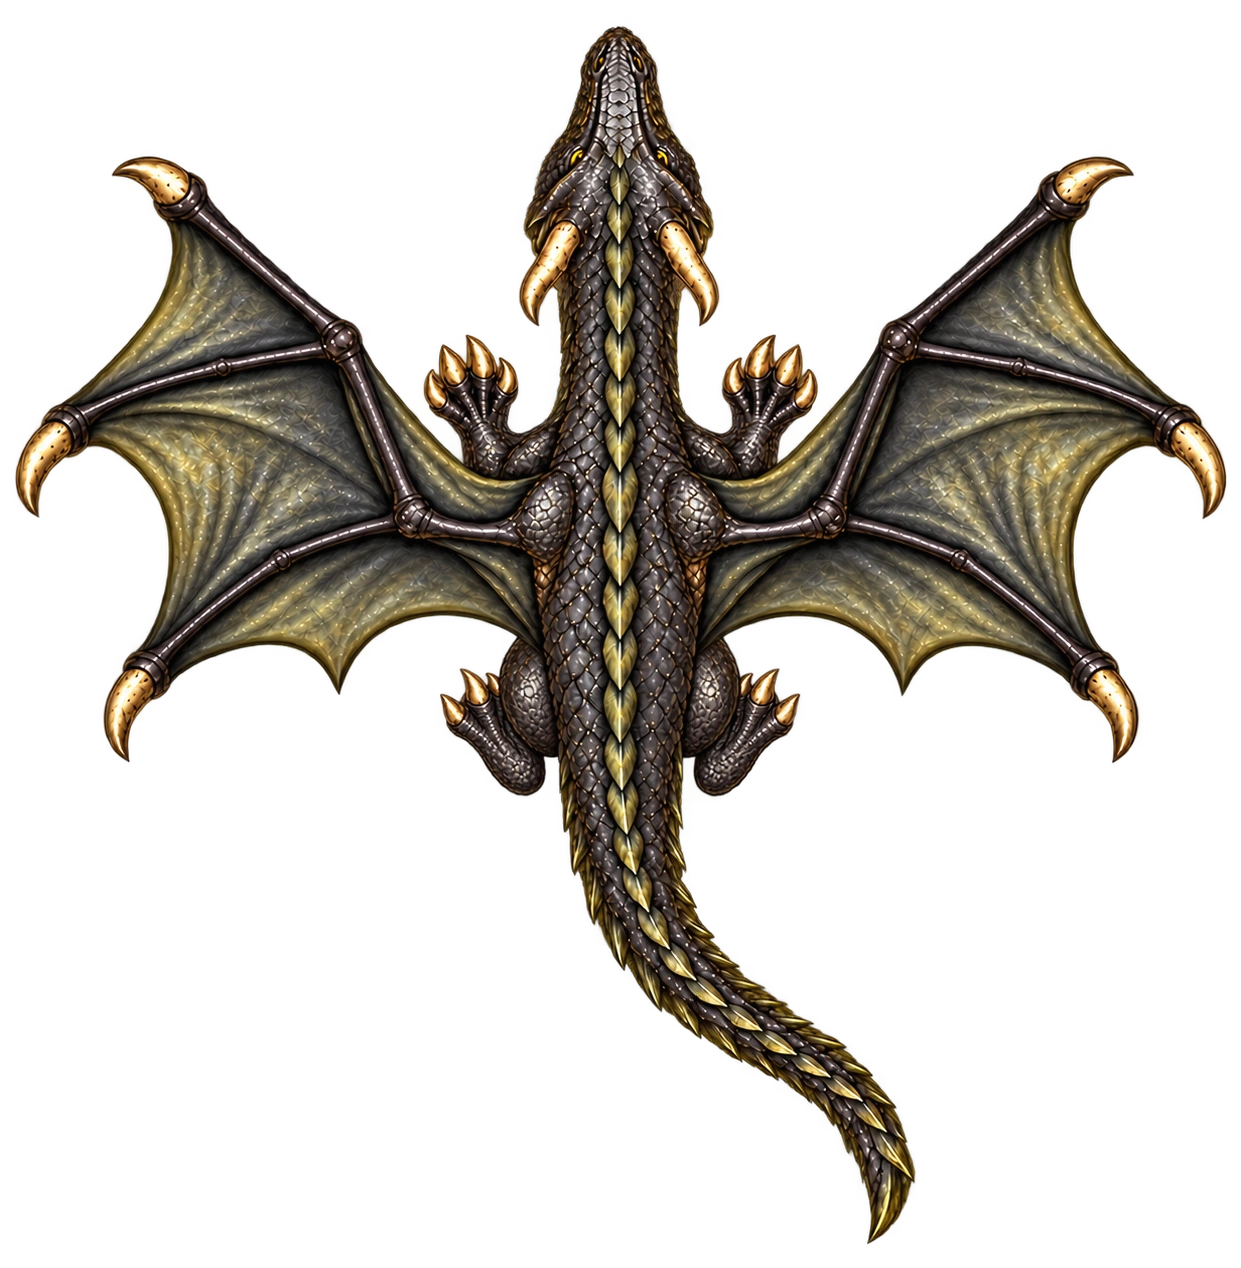
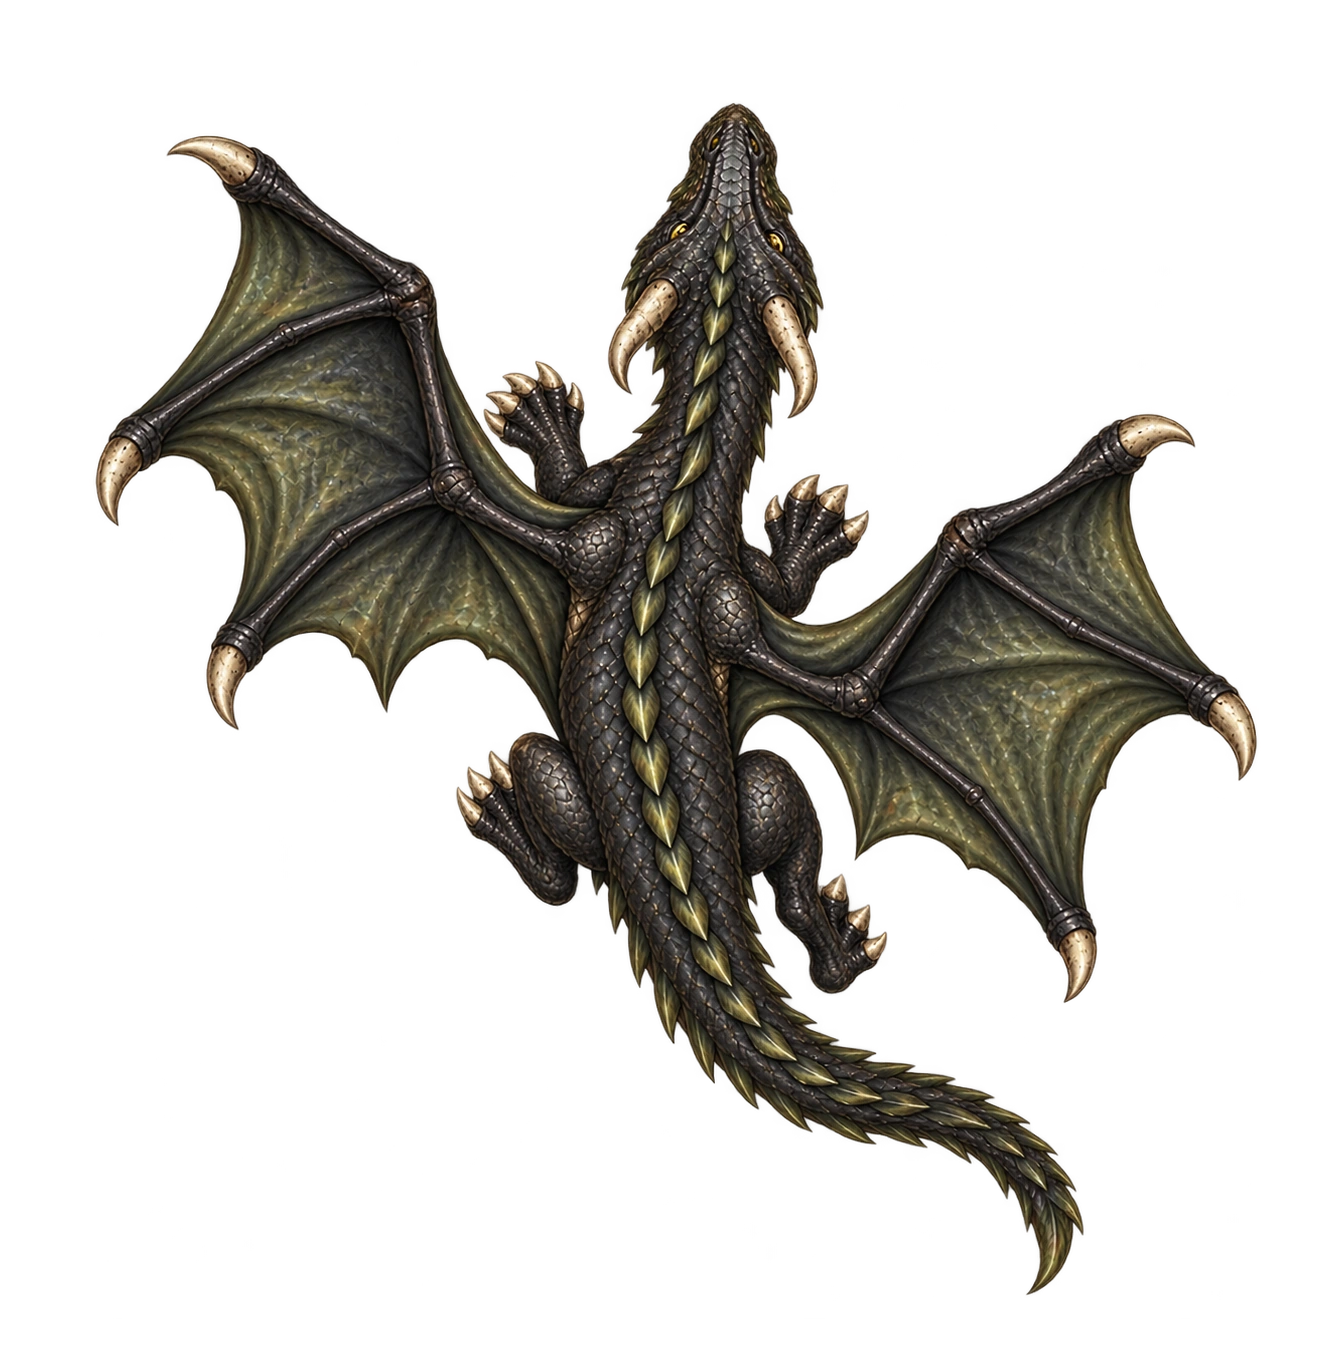
Refine seven VTT monster tokens and move audio credits to settings

diff --git a/src/VttSoundboard.tsx b/src/VttSoundboard.tsx
@@ -528,23 +528,6 @@ export function VttSoundboard({
       ) : (
         <p className="vtt-muted">O mestre escolhe os sons compartilhados da mesa.</p>
       )}
-      <details className="vtt-sound-credits">
-        <summary>Créditos da biblioteca</summary>
-        <p>
-          Músicas: RandomMind. Efeitos: Kenney e JaggedStone. Ambientes: TinyWorlds, PagDev, Ylmir,
-          remaxim e RandomMind. Composições de ambientes: Alvorada Cinzenta.
-        </p>
-        <a href="/audio/vtt/CREDITS.md" target="_blank" rel="noreferrer">
-          Fontes e licenças
-        </a>
-        <p>
-          Referência de organização:{' '}
-          <a href="https://tabletopaudio.com/soundpad.html" target="_blank" rel="noreferrer">
-            Tabletop Audio SoundPad
-          </a>
-          .
-        </p>
-      </details>
     </div>
   );
 }

diff --git a/src/Vtt.tsx b/src/Vtt.tsx
@@ -108,6 +108,7 @@ import { VttEffectSounds } from './VttEffectSounds';
 import { useVttMediaPreferences } from './vtt-media-preferences';
 import type { AttackVisualCommand } from '../shared/vtt-attack-visual';
 import { VttSoundboard } from './VttSoundboard';
+import { VttSoundCredits } from './VttSoundCredits';
 import { useVttSounds } from './useVttSounds';
 import { soundSettings, type SoundCommand } from '../shared/vtt-sounds';
 import { VttRollHelp } from './VttRollHelp';
@@ -4428,6 +4429,7 @@ export function Vtt({ characters, user }: { characters: Character[]; user: User 
                   >
                     Recarregar versão salva
                   </button>
+                  <VttSoundCredits />
                 </>
               )}
               {tab === 'help' && (

diff --git a/src/VttSoundCredits.tsx b/src/VttSoundCredits.tsx
@@ -1,0 +1,21 @@
+export function VttSoundCredits() {
+  return (
+    <details className="vtt-sound-credits">
+      <summary>Créditos e licenças de áudio</summary>
+      <p>
+        Músicas: RandomMind. Efeitos: Kenney e JaggedStone. Ambientes: TinyWorlds, PagDev, Ylmir,
+        remaxim e RandomMind. Composições de ambientes: Alvorada Cinzenta.
+      </p>
+      <a href="/audio/vtt/CREDITS.md" target="_blank" rel="noreferrer">
+        Fontes e licenças
+      </a>
+      <p>
+        Referência de organização:{' '}
+        <a href="https://tabletopaudio.com/soundpad.html" target="_blank" rel="noreferrer">
+          Tabletop Audio SoundPad
+        </a>
+        .
+      </p>
+    </details>
+  );
+}

diff --git a/docs/MONSTER-REFINEMENT-20261008.md b/docs/MONSTER-REFINEMENT-20261008.md
@@ -1,0 +1,53 @@
+# Revisão individual de monstros e créditos do VTT — 08/10/2026
+
+Sete artes foram redesenhadas em vista de cima e aplicadas ao acervo existente.
+Os IDs e os endereços dos tokens continuam os mesmos. A biblioteca mantém 330
+criaturas; esta revisão individual não retoma o projeto pausado de quatro
+alternativas para cada monstro.
+
+| Criatura | Direção da arte final | Arquivo |
+| --- | --- | --- |
+| Adult Black Dragon | Curva contínua no pescoço, tronco, quadril e cauda; asas assimétricas e articulações das patas | [WEBP](../data/vtt/premium-art/monster-adult-black-dragon-v1.webp) |
+| Basilisk | Corpo robusto azul acinzentado, oito patas, espinhos escuros e cabeça larga | [WEBP](../data/vtt/premium-art/monster-basilisk-v1.webp) |
+| Balor | Torção corporal, asas assimétricas, musculatura vermelha e membranas vinho; espada elétrica e chicote de fogo | [WEBP](../data/vtt/premium-art/monster-balor-v1.webp) |
+| Black Dragon Wyrmling | Escamas negras, membranas verde oliva, anatomia juvenil e silhueta assimétrica | [WEBP](../data/vtt/premium-art/monster-black-dragon-wyrmling-v1.webp) |
+| Elephant | Patas verticais sob o corpo, encobertas pela projeção superior; dobras de pele e orelhas modeladas | [WEBP](../data/vtt/premium-art/monster-elephant-v1.webp) |
+| Berserker | Duas mãos envolvendo o cabo, uma no terço central e outra perto da extremidade; punhos e antebraços conectados | [WEBP](../data/vtt/premium-art/monster-berserker-v1.webp) |
+| Shrieker Fungus | Chapéu fechado arredondado, abertura central pequena, bulbos posteriores, dois membros laterais e duas bases curtas | [WEBP](../data/vtt/premium-art/monster-shrieker-fungus-v1.webp) |
+
+Produção com **Imagegen integrado**, por edição/redesenho de referências.
+As referências fornecidas guiam anatomia, gesto e material; os recortes são
+ilustrações próprias. Prompts, fontes, dimensões e hashes anterior/final estão
+em [monster-refinement-20261008.json](../data/vtt/monster-refinement-20261008.json).
+O manifesto continua em [premium-art/manifest.json](../data/vtt/premium-art/manifest.json).
+
+Entrega WebP com qualidade 95, alpha preservado e margem transparente adicional
+de 4% em cada dimensão. As silhuetas completas permanecem dentro do quadro.
+Backups das sete artes anteriores e do manifesto ficam em
+`.local/backups/monster-refinement-20261008`. O PNG gerado original permanece
+na pasta de imagens do Codex.
+
+## Créditos de áudio
+
+O bloco saiu da aba **Som** e está no fim de
+**Configurações e ajuda → Mesa**, em **Créditos e licenças de áudio**.
+A seção começa recolhida e pode ser aberta pelo resumo. Atribuições, link local
+de fontes/licenças e referência ao SoundPad permanecem disponíveis para mestre
+e jogador. A mudança só reposiciona a apresentação dos créditos.
+
+## Verificação
+
+- TSC e builds cliente/servidor aprovados na fonte de release.
+- Renderer real no navegador: sete WebP decodificados, tokens de 240 e 90 px,
+  giro e espelho, sem erros de JavaScript; captura local
+  `test-results/monster-refinement-renderer-qa.png`.
+- Créditos ausentes do painel Som, recolhidos nas configurações e expansíveis.
+- Teste HTTP do acervo em banco descartável aprovado, incluindo acesso por
+  jogador, HEAD de todas as 330 artes, cache privado e limites independentes.
+- Conferência de hashes mantém intactas as outras 323 artes.
+- Aplicação local atualizada; bundles, 330 artes e 155 sons conferidos.
+- Comparação pré/pós de 43 tabelas conserva bens, saldos, mensagens e mesas.
+- Protótipo local de variantes preservado e excluído do release.
+
+Uma mesa já aberta conserva imagens em memória; **Ctrl+F5** carrega os novos
+recortes. Tokens com imagem personalizada continuam usando a imagem escolhida.

diff --git a/AGENTS.md b/AGENTS.md
@@ -111,6 +111,16 @@ Três correções anteriores (dragão negro adulto, behir e balor) já estão sa
 no acervo, com backup local e prompts em monster-structure-20261008.json.
 Estado do checkpoint e próximos passos: docs/VTT-CHECKPOINT-20261008.md.
 
+Pedidos individuais posteriores de 08/10 revisaram sete artes: Adult Black
+Dragon, Basilisk, Balor, Black Dragon Wyrmling, Elephant, Berserker e Shrieker
+Fungus. Elephant mantém patas sob o corpo, encobertas pela vista superior;
+Berserker tem mãos envolvendo o cabo do machado; Shrieker segue a estrutura
+compacta da referência, com disco fechado e membros laterais. Não retomar o
+acervo completo pausado por causa desses pedidos individuais. Prompts e estado
+em docs/MONSTER-REFINEMENT-20261008.md. Créditos da biblioteca de áudio ficam
+recolhidos em Configurações e ajuda → Mesa, fora da aba Som; conservar fontes
+e licenças acessíveis.
+
 Som VTT, direção de 07/10: o acesso ao site é pago. Tabletop Audio/SoundPad são
 referência de organização e qualidade; não incorporar suas trilhas NC nem os
 efeitos restritos ao site original. Acervo local de 75 arquivos com bases CC0,

diff --git a/docs/CONTEXTO.md b/docs/CONTEXTO.md
@@ -1,5 +1,19 @@
 # Memória do projeto — Alvorada Cinzenta
 
+## Revisão individual de monstros e créditos (08/10/2026)
+
+Sete pedidos individuais aplicados: Adult Black Dragon com curva corporal,
+Basilisk robusto com oito patas, Balor com musculatura/gesto assimétrico,
+Black Dragon Wyrmling detalhado, Elephant com patas sob o corpo e encobertas
+pela vista superior, Berserker com mãos no cabo e Shrieker com disco fúngico
+fechado, abertura pequena e quatro membros definidos. IDs/URLs preservados.
+Imagegen integrado; 323 outras artes intactas, backups locais e prompts/hashes
+em data/vtt/monster-refinement-20261008.json. Guia MONSTER-REFINEMENT-20261008.md.
+Créditos de áudio saíram do painel Som e ficam recolhidos no fim de
+Configurações e ajuda → Mesa. TSC/builds, renderer real e HTTP descartável
+aprovados; Docker local atualizado e dados preservados. O projeto completo
+de 330 criaturas com quatro alternativas permanece pausado e fora do release.
+
 ## Retomada parcial e aplicação em 08/10/2026
 
 Pedidos seguintes implementados: cartões de chat /arma e /magia por jogadores;

diff --git a/README.md b/README.md
@@ -1,5 +1,10 @@
 # Alvorada Cinzenta
 
+Revisão individual de 08/10: novas artes para Adult Black Dragon, Basilisk,
+Balor, Black Dragon Wyrmling, Elephant, Berserker e Shrieker Fungus. Créditos de
+áudio ficam recolhidos em Configurações e ajuda → Mesa, fora do painel Som.
+[Artes, prompts e verificação](docs/MONSTER-REFINEMENT-20261008.md).
+
 VTT de 08/10: ataques com corte de espada ou flecha do atacante ao alvo, impacto
 conforme d20/CA e som; sons dos 36 efeitos com volume/mute locais. Configurações
 e ajuda → Mesa permite desligar todos os efeitos visuais neste navegador.
